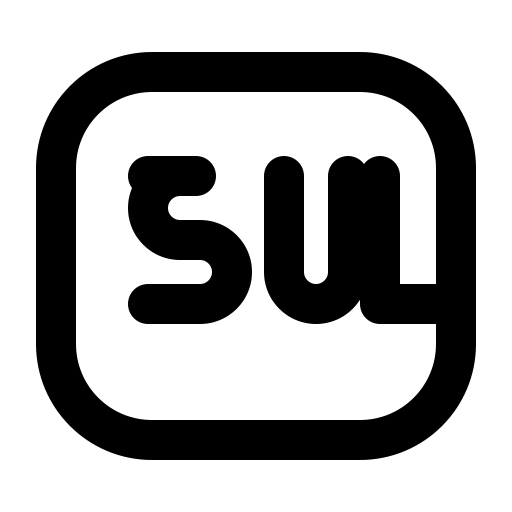
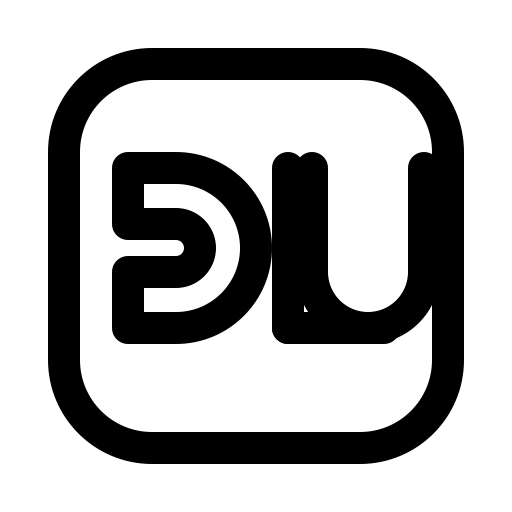
feat(国际化): 添加多语言支持并更新资源文件
实现VS Code扩展的国际化功能，包括：
- 添加中英文本地化资源文件
- 创建l10n模块处理本地化字符串
- 更新UI组件使用本地化文本
- 修改package.json配置多语言支持
- 优化数据库管理器图标

diff --git a/apps/extension/src/panels/connectionDetailsPanel.ts b/apps/extension/src/panels/connectionDetailsPanel.ts
@@ -1,4 +1,5 @@
 import * as vscode from "vscode";
+import { l10n } from "../l10n/index.js";
 import type { ExtensionToWebviewMessage, WebviewToExtensionMessage } from "@usd/shared";
 import { ConnectionStore } from "../storage/connectionStore.js";
 import { OperationLogStore } from "../storage/operationLogStore.js";
@@ -27,7 +28,7 @@ export class ConnectionDetailsPanel {
     if (!this.panel) {
       this.panel = vscode.window.createWebviewPanel(
         ConnectionDetailsPanel.viewType,
-        `Connection: ${connection.name}`,
+        l10n.t(`Connection: ${connection.name}`),
         vscode.ViewColumn.Active,
         {
           enableScripts: true,
@@ -46,7 +47,7 @@ export class ConnectionDetailsPanel {
     }
 
     this.currentConnectionId = connection.id;
-    this.panel.title = `Connection: ${connection.name}`;
+    this.panel.title = l10n.t(`Connection: ${connection.name}`);
     this.panel.webview.html = await renderWebviewHtml(this.panel.webview, this.context.extensionUri, connection.name);
     await this.postBootstrap(connection.id);
     this.panel.reveal(vscode.ViewColumn.Active);
@@ -80,16 +81,16 @@ export class ConnectionDetailsPanel {
         const savedConnection = await this.connectionStore.upsert(message.payload);
         const connection = this.connectionStore.get(savedConnection.id);
         if (!connection) {
-          throw new Error("Connection save could not be verified");
+          throw new Error(l10n.t("Connection save could not be verified"));
         }
 
         const form = await this.connectionStore.toForm(connection.id);
         if (form.readonly !== message.payload.readonly) {
-          throw new Error("Connection save did not persist the latest readonly setting");
+          throw new Error(l10n.t("Connection save did not persist the latest readonly setting"));
         }
 
         this.currentConnectionId = connection.id;
-        this.panel.title = `Connection: ${connection.name}`;
+        this.panel.title = l10n.t(`Connection: ${connection.name}`);
         await this.panel.webview.postMessage({
           type: "connection/saved",
           payload: {
@@ -118,7 +119,7 @@ export class ConnectionDetailsPanel {
           type: "connection/testResult",
           payload: {
             success: response.success,
-            message: response.success ? "Connection successful" : response.error?.message ?? "Connection failed"
+            message: response.success ? l10n.t("connectionSuccessful", "Connection successful") : response.error?.message ?? l10n.t("connectionFailed", "Connection failed")
           }
         } satisfies ExtensionToWebviewMessage);
         return;
@@ -157,7 +158,7 @@ export class ConnectionDetailsPanel {
         type: "ui/error",
         payload: {
           code: "UNKNOWN",
-          message: error instanceof Error ? error.message : "Connection operation failed"
+          message: error instanceof Error ? error.message : l10n.t("Connection operation failed")
         }
       } satisfies ExtensionToWebviewMessage);
     }

diff --git a/apps/extension/src/commands/registerCommands.ts b/apps/extension/src/commands/registerCommands.ts
@@ -1,4 +1,5 @@
 import * as vscode from "vscode";
+import { l10n } from "../l10n/index.js";
 import { createEmptyConnectionForm, type DatabaseType } from "@usd/shared";
 import { ConnectionStore } from "../storage/connectionStore.js";
 import { DatabaseExplorerProvider } from "../explorer/databaseExplorerProvider.js";
@@ -20,12 +21,12 @@ export function registerCommands(
     vscode.commands.registerCommand("extension.addConnection", async () => {
       const typePick = await vscode.window.showQuickPick<{ label: string; value: DatabaseType }>(
         [
-          { label: "MySQL", value: "mysql" },
-          { label: "PostgreSQL", value: "postgresql" },
-          { label: "SQLite", value: "sqlite" }
+          { label: l10n.t("databaseType.mysql", "MySQL"), value: "mysql" },
+          { label: l10n.t("databaseType.postgresql", "PostgreSQL"), value: "postgresql" },
+          { label: l10n.t("databaseType.sqlite", "SQLite"), value: "sqlite" }
         ],
         {
-        placeHolder: "Select database type"
+        placeHolder: l10n.t("selectDatabaseType", "Select database type")
         }
       );
       const type = typePick?.value;
@@ -36,7 +37,7 @@ export function registerCommands(
       const form = createEmptyConnectionForm(type);
       const saved = await connectionStore.upsert({
         ...form,
-        name: type === "sqlite" ? "New SQLite Connection" : `New ${type} Connection`
+        name: type === "sqlite" ? l10n.t("New SQLite Connection") : l10n.t(`New ${type} Connection`)
       });
       await connectionPanel.open(saved.id);
       explorer.refresh();
@@ -53,8 +54,8 @@ export function registerCommands(
       if (!connectionId) {
         return;
       }
-      const confirmed = await vscode.window.showWarningMessage("Remove this saved connection?", { modal: true }, "Remove");
-      if (confirmed !== "Remove") {
+      const confirmed = await vscode.window.showWarningMessage(l10n.t("removeConnectionWarning", "Remove this saved connection?"), { modal: true }, l10n.t("removeButton", "Remove"));
+      if (confirmed !== l10n.t("removeButton", "Remove")) {
         return;
       }
       await connectionStore.delete(connectionId);
@@ -70,9 +71,9 @@ export function registerCommands(
       }
       const response = await nativeBridge.call(connection, "testConnection", {});
       if (response.success) {
-        void vscode.window.showInformationMessage("Connection successful");
+        void vscode.window.showInformationMessage(l10n.t("connectionSuccessful", "Connection successful"));
       } else {
-        void vscode.window.showErrorMessage(response.error?.message ?? "Connection failed");
+        void vscode.window.showErrorMessage(response.error?.message ?? l10n.t("connectionFailed", "Connection failed"));
       }
     }),
     vscode.commands.registerCommand("extension.refreshExplorer", () => explorer.refresh()),

diff --git a/apps/extension/src/explorer/databaseExplorerProvider.ts b/apps/extension/src/explorer/databaseExplorerProvider.ts
@@ -1,4 +1,5 @@
 import * as vscode from "vscode";
+import { l10n } from "../l10n/index.js";
 import type { SavedConnection } from "@usd/shared";
 import { ConnectionStore } from "../storage/connectionStore.js";
 import { DatabaseTreeNode } from "./explorerNodes.js";
@@ -22,12 +23,12 @@ export class DatabaseExplorerProvider implements vscode.TreeDataProvider<Databas
   public async getChildren(element?: DatabaseTreeNode): Promise<DatabaseTreeNode[]> {
     if (!element) {
       return [
-        this.createActionNode("actionAddConnection", "add-connection", "Add Connection", "extension.addConnection"),
-        this.createActionNode("actionOpenSqlite", "open-sqlite", "Open SQLite File", "extension.openSQLiteFile"),
+        this.createActionNode("actionAddConnection", "add-connection", l10n.t("addConnection", "Add Connection"), "extension.addConnection"),
+        this.createActionNode("actionOpenSqlite", "open-sqlite", l10n.t("openSqliteFile", "Open SQLite File"), "extension.openSQLiteFile"),
         new DatabaseTreeNode(
           "savedConnections",
           "saved-connections",
-          "Saved Connections",
+          l10n.t("savedConnections", "Saved Connections"),
           vscode.TreeItemCollapsibleState.Expanded
         )
       ];
@@ -57,7 +58,7 @@ export class DatabaseExplorerProvider implements vscode.TreeDataProvider<Databas
     };
     node.command = {
       command: "extension.openTableData",
-      title: "Open Database",
+      title: l10n.t("openDatabase", "Open Database"),
       arguments: [{ connection: { id: connection.id } }]
     };
     return node;

diff --git a/apps/extension/src/l10n/index.ts b/apps/extension/src/l10n/index.ts
@@ -1,0 +1,7 @@
+import * as vscode from 'vscode';
+
+export const l10n = vscode.l10n;
+
+export function localize(key: string, defaultValue: string, ...args: any[]): string {
+  return l10n.t(key, ...args) || defaultValue;
+}
